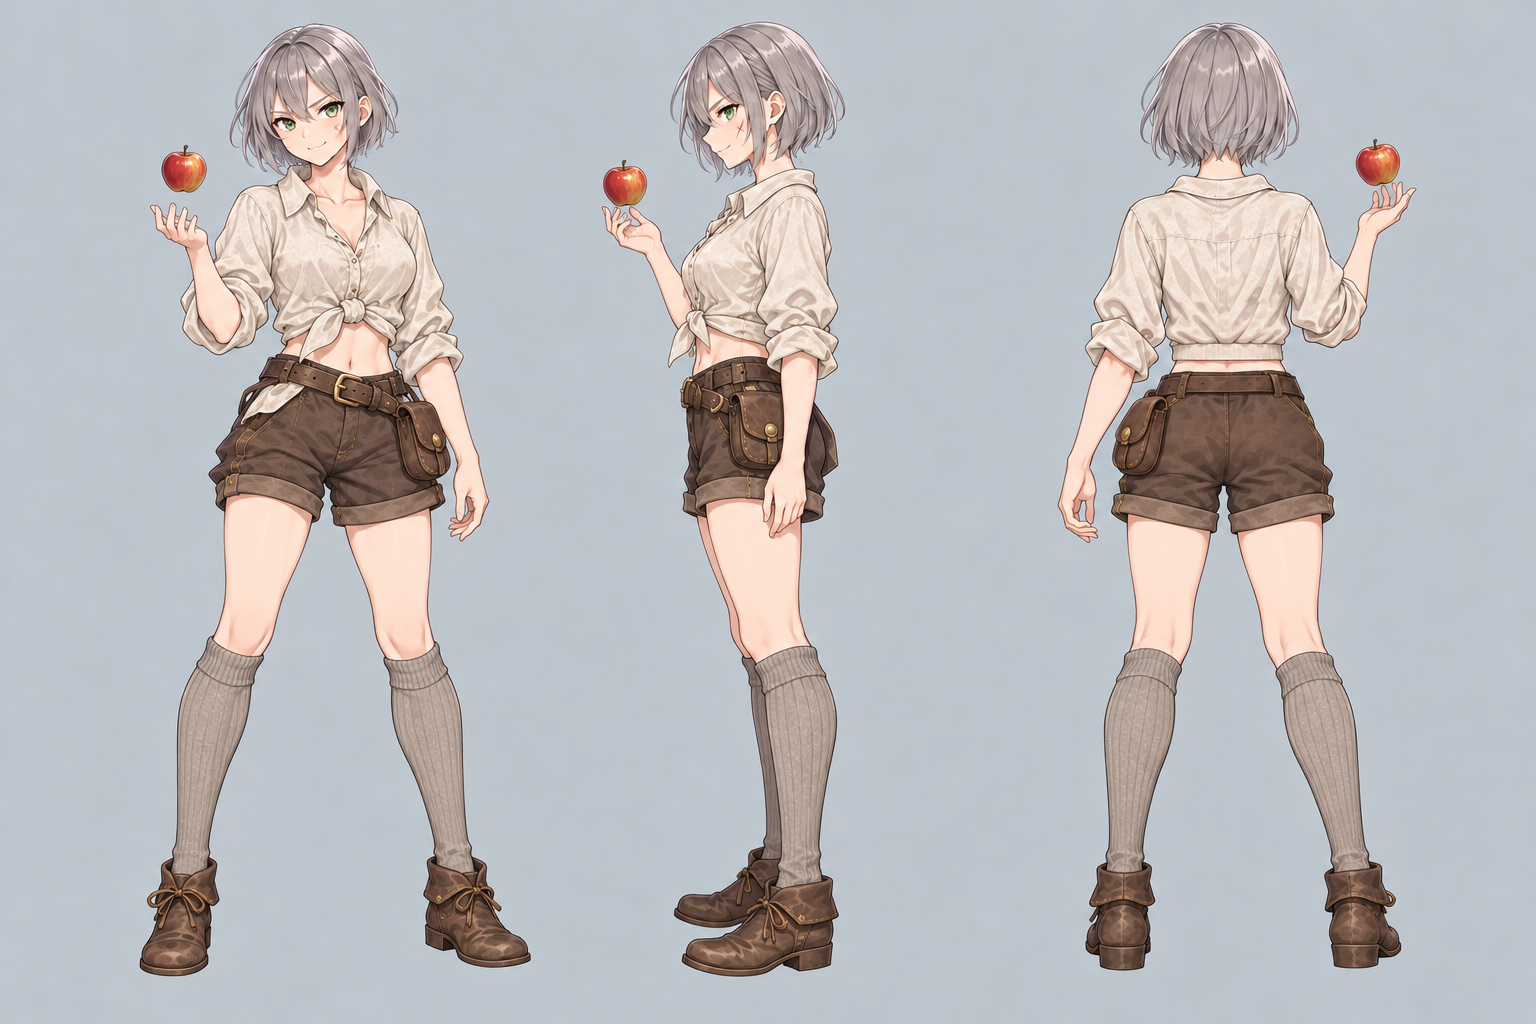
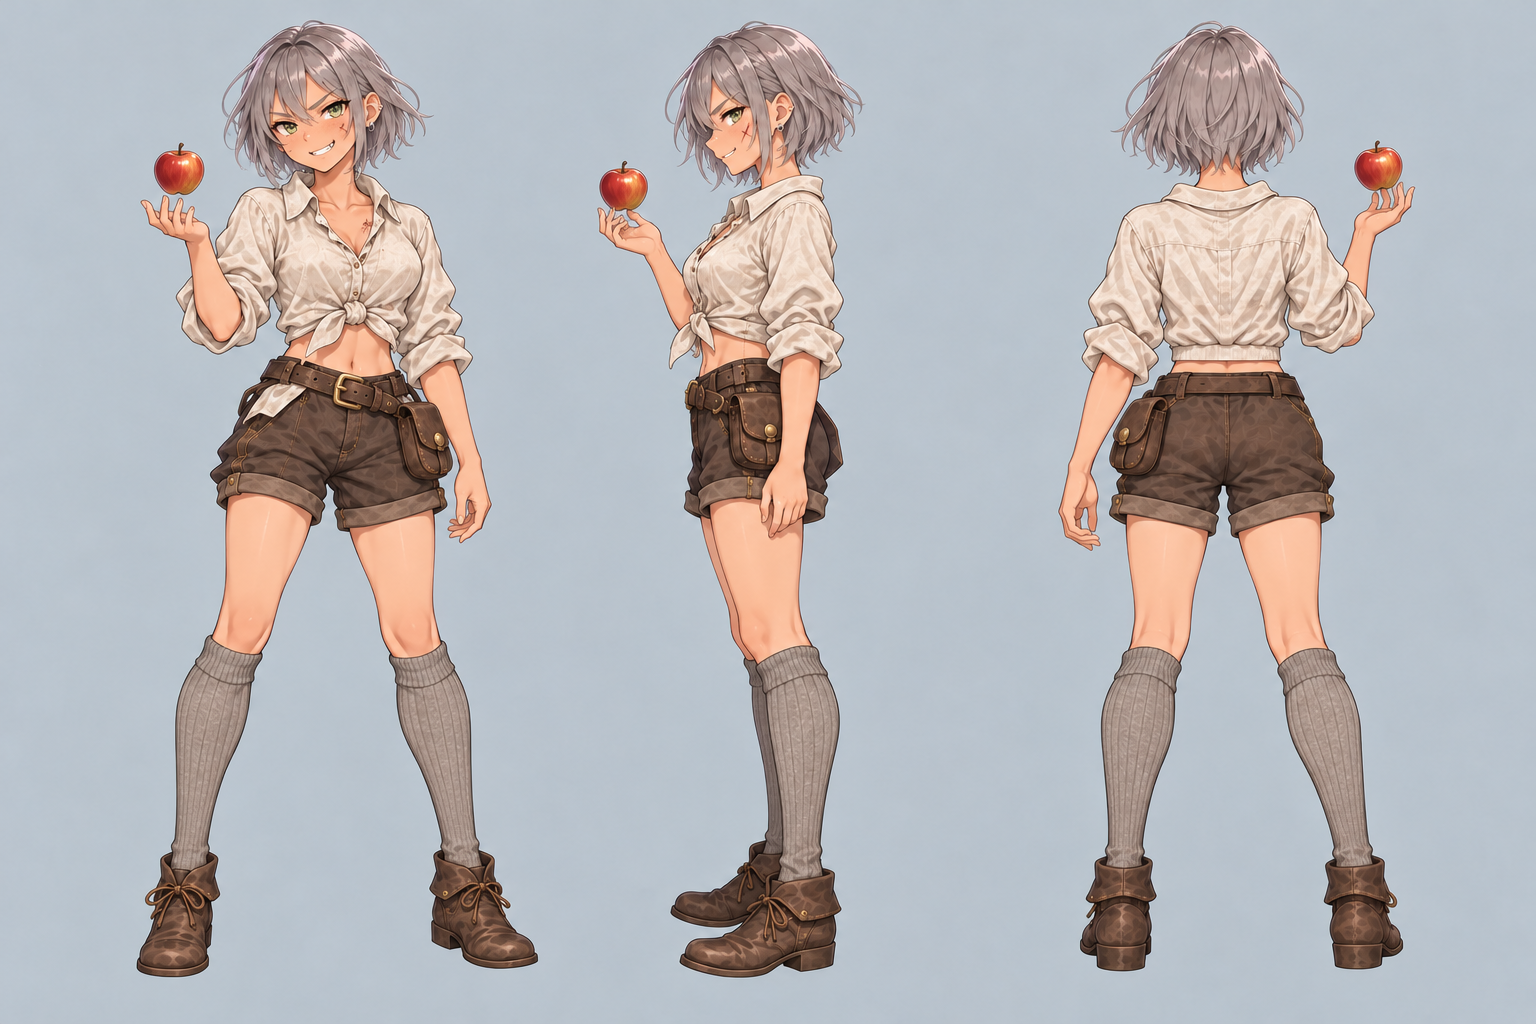
Art: S10R redesigned reference sheets for Cecile and Adelheid approved

Changed region(s): [[0.0938, 0.0, 0.3438, 0.9688], [0.6875, 0.0, 0.9375, 0.9375], [0.375, 0.0, 0.5625, 0.9688]]

diff --git a/art/steps/S10R.md b/art/steps/S10R.md
@@ -41,4 +41,4 @@ S08 세실 세트 21장, S10 아델하이트 세트 18장, S18 cg_affection_C02 
 
 ## 피드백
 
-(아직 없음)
+2026-10-16 · 1차 레퍼런스 4장 승인 (아델하이트는 변화가 작지만 이대로 승인).
